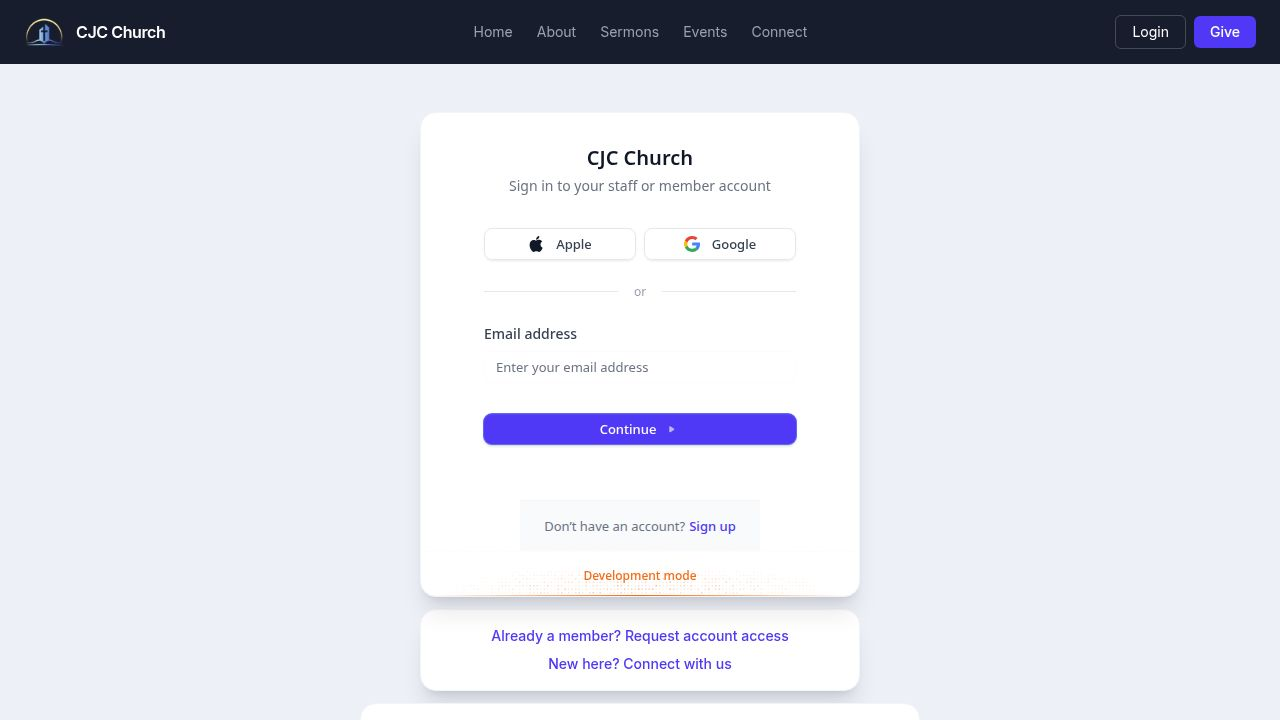
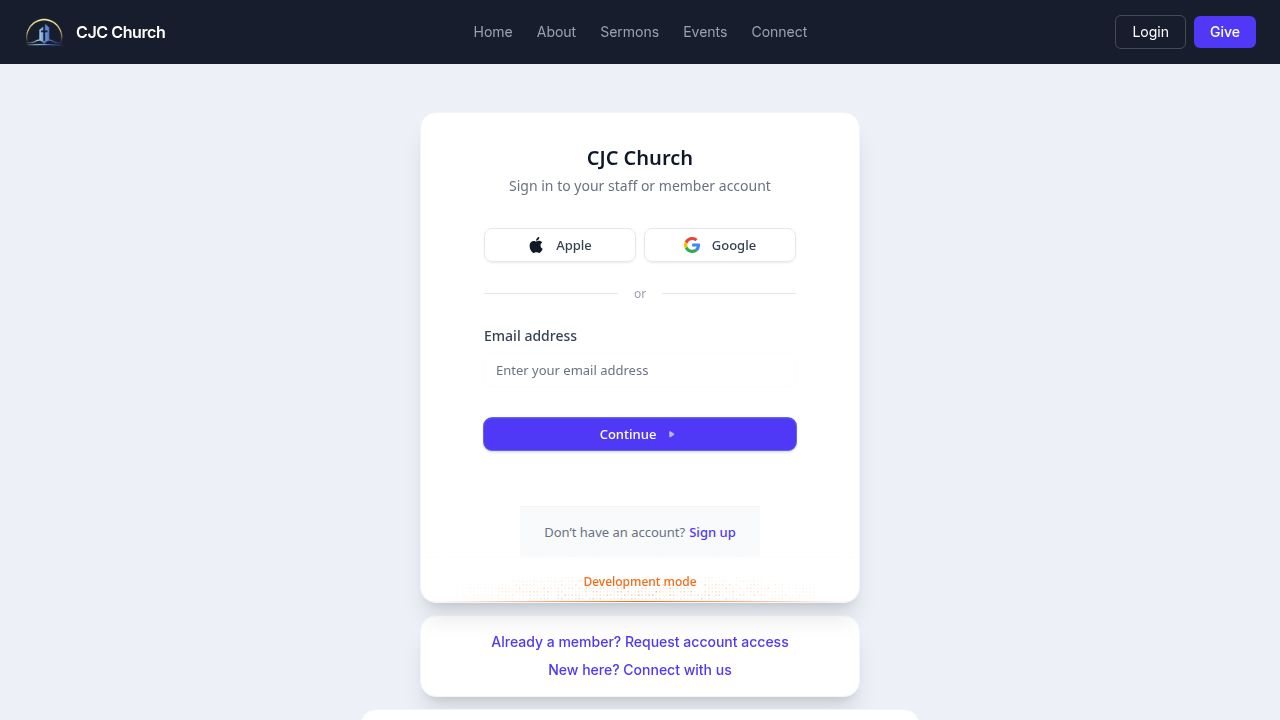
Add functionality to invite, manage, and revoke admin access
Update API route to handle admin invitation emails and base URL. Modify settings page to include controlled invite dialog, revoke functionality for pending invitations, and associated mutation hooks.

Replit-Commit-Author: Agent
Replit-Commit-Session-Id: e29ba2bb-5c16-4534-b2af-549dbbc93ea2
Replit-Commit-Checkpoint-Type: full_checkpoint
Replit-Commit-Event-Id: 8455f02d-d2d3-41e7-9af9-88a6049d2025
Replit-Commit-Screenshot-Url: https://storage.googleapis.com/screenshot-production-us-central1/abbe46b4-1184-4a42-a2fe-5eeb7edc64b2/e29ba2bb-5c16-4534-b2af-549dbbc93ea2/IYWcZ1a
Replit-Helium-Checkpoint-Created: true

diff --git a/artifacts/api-server/src/routes/admin.ts b/artifacts/api-server/src/routes/admin.ts
@@ -39,7 +39,54 @@ function adminTitle(adminLevel: AdminLevel): string {
 }
 
 function getPublicBaseUrl(req: Request): string {
-  return process.env.APP_BASE_URL ?? `${req.protocol}://${req.get("host")}`;
+  if (process.env.APP_BASE_URL) return process.env.APP_BASE_URL;
+  const replitDomain = process.env.REPLIT_DOMAINS?.split(",")[0];
+  if (replitDomain) return `https://${replitDomain}`;
+  const proto = (req.get("x-forwarded-proto") ?? req.protocol) || "https";
+  return `${proto}://${req.get("host")}`;
+}
+
+function buildInviteEmailHtml(params: { name: string; inviteUrl: string; invitedBy: string }): string {
+  return `<!DOCTYPE html>
+<html lang="en">
+<head><meta charset="UTF-8"><meta name="viewport" content="width=device-width,initial-scale=1"><title>Admin Invitation</title></head>
+<body style="margin:0;padding:0;background:#f4f4f5;font-family:-apple-system,BlinkMacSystemFont,'Segoe UI',sans-serif;">
+  <table width="100%" cellpadding="0" cellspacing="0" style="background:#f4f4f5;padding:40px 16px;">
+    <tr><td align="center">
+      <table width="560" cellpadding="0" cellspacing="0" style="background:#ffffff;border-radius:8px;overflow:hidden;box-shadow:0 1px 3px rgba(0,0,0,.08);">
+        <tr><td style="background:#1a1f2e;padding:28px 32px;text-align:center;">
+          <p style="margin:0;font-size:20px;font-weight:700;color:#ffffff;letter-spacing:-0.3px;">CJC Church</p>
+          <p style="margin:4px 0 0;font-size:12px;color:#94a3b8;letter-spacing:1px;text-transform:uppercase;">Church OS</p>
+        </td></tr>
+        <tr><td style="padding:36px 32px 24px;">
+          <h1 style="margin:0 0 8px;font-size:22px;font-weight:700;color:#0f172a;">You're invited as an admin</h1>
+          <p style="margin:0 0 24px;font-size:15px;color:#64748b;line-height:1.6;">
+            <strong style="color:#0f172a;">${params.invitedBy}</strong> has invited you to join Church OS as an administrator for CJC Church.
+          </p>
+          <p style="margin:0 0 8px;font-size:14px;color:#64748b;">Hi <strong style="color:#0f172a;">${params.name}</strong>,</p>
+          <p style="margin:0 0 28px;font-size:14px;color:#64748b;line-height:1.6;">
+            Click the button below to complete your admin account setup. You'll be asked to sign in (or create an account) with this email address first.
+          </p>
+          <table cellpadding="0" cellspacing="0" width="100%">
+            <tr><td align="center">
+              <a href="${params.inviteUrl}" style="display:inline-block;background:#2563eb;color:#ffffff;font-size:15px;font-weight:600;text-decoration:none;padding:14px 32px;border-radius:6px;letter-spacing:-0.2px;">Accept Admin Invitation</a>
+            </td></tr>
+          </table>
+        </td></tr>
+        <tr><td style="padding:20px 32px;border-top:1px solid #f1f5f9;">
+          <p style="margin:0 0 8px;font-size:12px;color:#94a3b8;">Or copy and paste this link into your browser:</p>
+          <p style="margin:0;font-size:12px;color:#2563eb;word-break:break-all;">${params.inviteUrl}</p>
+        </td></tr>
+        <tr><td style="padding:16px 32px 28px;background:#f8fafc;border-top:1px solid #f1f5f9;">
+          <p style="margin:0;font-size:12px;color:#94a3b8;line-height:1.5;">
+            This secure invite link expires in 72 hours and can only be used once. If you weren't expecting this invitation, you can safely ignore this email.
+          </p>
+        </td></tr>
+      </table>
+    </td></tr>
+  </table>
+</body>
+</html>`;
 }
 
 async function sendAdminInviteEmail(params: {
@@ -48,7 +95,7 @@ async function sendAdminInviteEmail(params: {
   inviteUrl: string;
   invitedBy: string;
 }) {
-  const from = process.env.INVITE_EMAIL_FROM ?? "Church OS <[email redacted]>";
+  const from = process.env.INVITE_EMAIL_FROM ?? "Church OS <[email redacted]>";
   const subject = "You're invited to administer Church OS";
   const text = [
     `Hi ${params.name},`,
@@ -56,7 +103,7 @@ async function sendAdminInviteEmail(params: {
     `${params.invitedBy} invited you to join Church OS as an administrator.`,
     `Open this secure invite link to finish setup: ${params.inviteUrl}`,
     "",
-    "This link expires automatically and can only be used once.",
+    "This link expires in 72 hours and can only be used once.",
   ].join("\n");
 
   if (process.env.RESEND_API_KEY) {
@@ -71,6 +118,7 @@ async function sendAdminInviteEmail(params: {
         to: params.to,
         subject,
         text,
+        html: buildInviteEmailHtml(params),
       }),
     });
 
@@ -458,6 +506,29 @@ router.post("/admin/invitations/accept/:token", requireAuth, async (req, res): P
   await db.update(usersTable).set({ lastLoginAt: new Date() }).where(eq(usersTable.id, userId));
 
   res.json({ message: "Admin invite accepted.", redirectTo: "/admin" });
+});
+
+router.delete("/admin/invitations/:id", requireSuperAdmin, async (req, res): Promise<void> => {
+  const id = Number(req.params.id);
+  if (!Number.isInteger(id)) { res.status(400).json({ error: "Invalid invitation id." }); return; }
+
+  const churchId = await getRequesterChurchId(req.localUserId);
+  if (!churchId) { res.status(401).json({ error: "Requester not found." }); return; }
+
+  const [invite] = await db
+    .select({ id: adminInvitationsTable.id, status: adminInvitationsTable.status })
+    .from(adminInvitationsTable)
+    .where(and(eq(adminInvitationsTable.id, id), eq(adminInvitationsTable.churchId, churchId)));
+
+  if (!invite) { res.status(404).json({ error: "Invitation not found." }); return; }
+  if (invite.status !== "pending") { res.status(409).json({ error: "Only pending invitations can be revoked." }); return; }
+
+  await db
+    .update(adminInvitationsTable)
+    .set({ status: "expired" })
+    .where(eq(adminInvitationsTable.id, id));
+
+  res.json({ message: "Invitation revoked." });
 });
 
 router.get("/admin/permissions/giving-records", requireAdminPermission(ADMIN_PERMISSIONS.GIVING_DETAILS), (_req, res) => {

diff --git a/artifacts/church-os/src/pages/admin/settings.tsx b/artifacts/church-os/src/pages/admin/settings.tsx
@@ -253,6 +253,8 @@ export default function AdminSettings() {
     onError: (error) => toast({ title: "Could not remove access", description: error.message, variant: "destructive" }),
   });
 
+  const [inviteDialogOpen, setInviteDialogOpen] = React.useState(false);
+
   const inviteAdmin = useMutation({
     mutationFn: (formData: FormData) => {
       const adminLevel = String(formData.get("adminLevel")) as AdminLevel;
@@ -272,9 +274,19 @@ export default function AdminSettings() {
     onSuccess: () => {
       toast({ title: "Admin invitation sent" });
       setDraftPermissions([]);
+      setInviteDialogOpen(false);
       void queryClient.invalidateQueries({ queryKey: ["admin-invitations"] });
     },
     onError: (error) => toast({ title: "Invite failed", description: error.message, variant: "destructive" }),
+  });
+
+  const revokeInvite = useMutation({
+    mutationFn: (id: number) => apiJson(`/admin/invitations/${id}`, { method: "DELETE" }),
+    onSuccess: () => {
+      toast({ title: "Invitation revoked" });
+      void queryClient.invalidateQueries({ queryKey: ["admin-invitations"] });
+    },
+    onError: (error) => toast({ title: "Could not revoke invitation", description: error.message, variant: "destructive" }),
   });
 
   const admins = adminsQuery.data?.admins ?? [];
@@ -334,10 +346,14 @@ export default function AdminSettings() {
                 invitations={invitationsQuery.data?.invitations ?? []}
                 activity={activityQuery.data?.log ?? []}
                 canManage={canManageAdmins}
+                inviteDialogOpen={inviteDialogOpen}
+                onInviteDialogOpenChange={setInviteDialogOpen}
                 onInvite={(formData) => inviteAdmin.mutate(formData)}
                 onUpdate={(id, updates) => updateAdmin.mutate({ id, updates })}
                 onRemove={(id) => removeAdminAccess.mutate(id)}
+                onRevoke={(id) => revokeInvite.mutate(id)}
                 isSaving={inviteAdmin.isPending || updateAdmin.isPending || removeAdminAccess.isPending}
+                isRevoking={revokeInvite.isPending}
               />
             )}
             {active === "permissions" && (
@@ -439,19 +455,27 @@ function AdminsSection({
   invitations,
   activity,
   canManage,
+  inviteDialogOpen,
+  onInviteDialogOpenChange,
   onInvite,
   onUpdate,
   onRemove,
+  onRevoke,
   isSaving,
+  isRevoking,
 }: {
   admins: AdminUser[];
   invitations: AdminInvitation[];
   activity: Array<{ type: string; label: string; detail: string; status: string }>;
   canManage: boolean;
+  inviteDialogOpen: boolean;
+  onInviteDialogOpenChange: (open: boolean) => void;
   onInvite: (formData: FormData) => void;
   onUpdate: (id: number, updates: Partial<AdminUser>) => void;
   onRemove: (id: number) => void;
+  onRevoke: (id: number) => void;
   isSaving: boolean;
+  isRevoking: boolean;
 }) {
   const [search, setSearch] = React.useState("");
   const filtered = admins.filter((admin) => `${admin.firstName} ${admin.lastName} ${admin.email} ${admin.assignedMinistry ?? ""}`.toLowerCase().includes(search.toLowerCase()));
@@ -464,7 +488,7 @@ function AdminsSection({
             <CardTitle>Admin Management</CardTitle>
             <CardDescription>View admins, edit profiles, disable accounts, and send secure invites.</CardDescription>
           </div>
-          {canManage && <InviteAdminDialog onInvite={onInvite} isSaving={isSaving} />}
+          {canManage && <InviteAdminDialog open={inviteDialogOpen} onOpenChange={onInviteDialogOpenChange} onInvite={onInvite} isSaving={isSaving} />}
         </CardHeader>
         <CardContent className="space-y-4">
           <Input placeholder="Search admins" value={search} onChange={(event) => setSearch(event.target.value)} />
@@ -491,15 +515,31 @@ function AdminsSection({
       </Card>
 
       <Card>
-        <CardHeader><CardTitle>Admin Invitations</CardTitle><CardDescription>Invite links expire and cannot be reused after acceptance.</CardDescription></CardHeader>
+        <CardHeader><CardTitle>Admin Invitations</CardTitle><CardDescription>Invite links expire in 72 hours and cannot be reused after acceptance.</CardDescription></CardHeader>
         <CardContent>
           <Table>
-            <TableHeader><TableRow><TableHead>Name</TableHead><TableHead>Email</TableHead><TableHead>Role</TableHead><TableHead>Status</TableHead><TableHead>Sent</TableHead><TableHead>Expires</TableHead></TableRow></TableHeader>
+            <TableHeader><TableRow><TableHead>Name</TableHead><TableHead>Email</TableHead><TableHead>Role</TableHead><TableHead>Status</TableHead><TableHead>Sent</TableHead><TableHead>Expires</TableHead>{canManage && <TableHead />}</TableRow></TableHeader>
             <TableBody>
               {invitations.map((invite) => (
-                <TableRow key={invite.id}><TableCell>{invite.name}</TableCell><TableCell>{invite.email}</TableCell><TableCell>{invite.adminTitle}</TableCell><TableCell><Badge variant={invite.status === "pending" ? "secondary" : "outline"}>{invite.status}</Badge></TableCell><TableCell>{dateTime(invite.sentAt)}</TableCell><TableCell>{dateTime(invite.expiresAt)}</TableCell></TableRow>
+                <TableRow key={invite.id}>
+                  <TableCell>{invite.name}</TableCell>
+                  <TableCell>{invite.email}</TableCell>
+                  <TableCell>{invite.adminTitle}</TableCell>
+                  <TableCell><Badge variant={invite.status === "pending" ? "secondary" : "outline"}>{invite.status}</Badge></TableCell>
+                  <TableCell>{dateTime(invite.sentAt)}</TableCell>
+                  <TableCell>{dateTime(invite.expiresAt)}</TableCell>
+                  {canManage && (
+                    <TableCell className="text-right">
+                      {invite.status === "pending" && (
+                        <Button size="sm" variant="ghost" className="text-destructive hover:text-destructive" disabled={isRevoking} onClick={() => onRevoke(invite.id)}>
+                          Revoke
+                        </Button>
+                      )}
+                    </TableCell>
+                  )}
+                </TableRow>
               ))}
-              {!invitations.length && <TableRow><TableCell colSpan={6} className="py-8 text-center text-muted-foreground">No invitations to show.</TableCell></TableRow>}
+              {!invitations.length && <TableRow><TableCell colSpan={canManage ? 7 : 6} className="py-8 text-center text-muted-foreground">No invitations to show.</TableCell></TableRow>}
             </TableBody>
           </Table>
         </CardContent>
@@ -854,19 +894,19 @@ function SettingControl({ name, value, onChange }: { name: string; value: unknow
   return <Field label={label} value={text(value)} onChange={onChange} />;
 }
 
-function InviteAdminDialog({ onInvite, isSaving }: { onInvite: (formData: FormData) => void; isSaving: boolean }) {
+function InviteAdminDialog({ open, onOpenChange, onInvite, isSaving }: { open: boolean; onOpenChange: (open: boolean) => void; onInvite: (formData: FormData) => void; isSaving: boolean }) {
   return (
-    <Dialog>
-      <DialogTrigger asChild><Button>Invite Admin</Button></DialogTrigger>
+    <Dialog open={open} onOpenChange={onOpenChange}>
+      <DialogTrigger asChild><Button onClick={() => onOpenChange(true)}>Invite Admin</Button></DialogTrigger>
       <DialogContent className="max-w-2xl">
-        <DialogHeader><DialogTitle>Invite Admin</DialogTitle><DialogDescription>Secure invite links expire and admin role assignment stays backend-controlled.</DialogDescription></DialogHeader>
+        <DialogHeader><DialogTitle>Invite Admin</DialogTitle><DialogDescription>A secure invite link will be emailed. Admin role assignment stays backend-controlled.</DialogDescription></DialogHeader>
         <form className="grid gap-4 md:grid-cols-2" onSubmit={(event) => { event.preventDefault(); onInvite(new FormData(event.currentTarget)); event.currentTarget.reset(); }}>
           <FieldInput name="firstName" label="First Name" />
           <FieldInput name="lastName" label="Last Name" />
           <FieldInput name="email" label="Email Address" type="email" />
           <div className="space-y-2"><Label>Admin Title</Label><select name="adminLevel" className="h-10 w-full rounded-md border bg-background px-3 text-sm"><option value="minister">Minister</option><option value="pastor">Pastor</option><option value="super_admin">Super Admin</option></select></div>
           <FieldInput name="assignedMinistry" label="Assigned Ministry / Department" required={false} />
-          <Button className="md:col-span-2" disabled={isSaving}>Send Invite</Button>
+          <Button className="md:col-span-2" disabled={isSaving}>{isSaving ? "Sending…" : "Send Invite"}</Button>
         </form>
       </DialogContent>
     </Dialog>